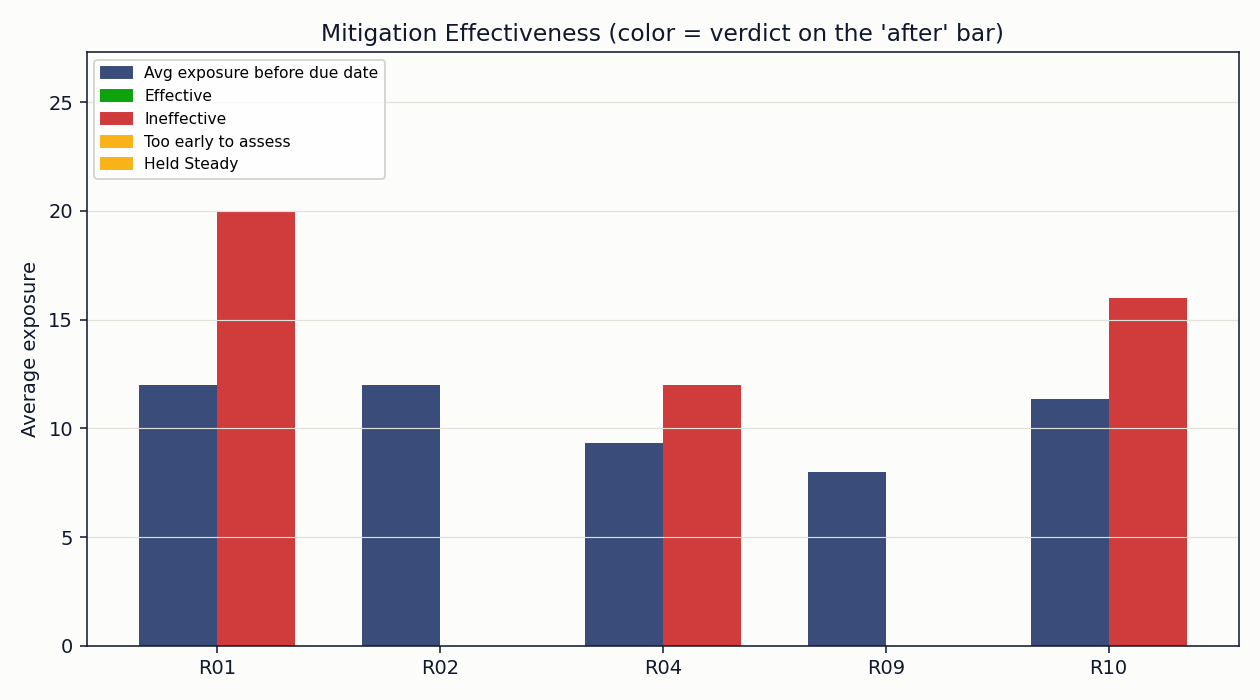
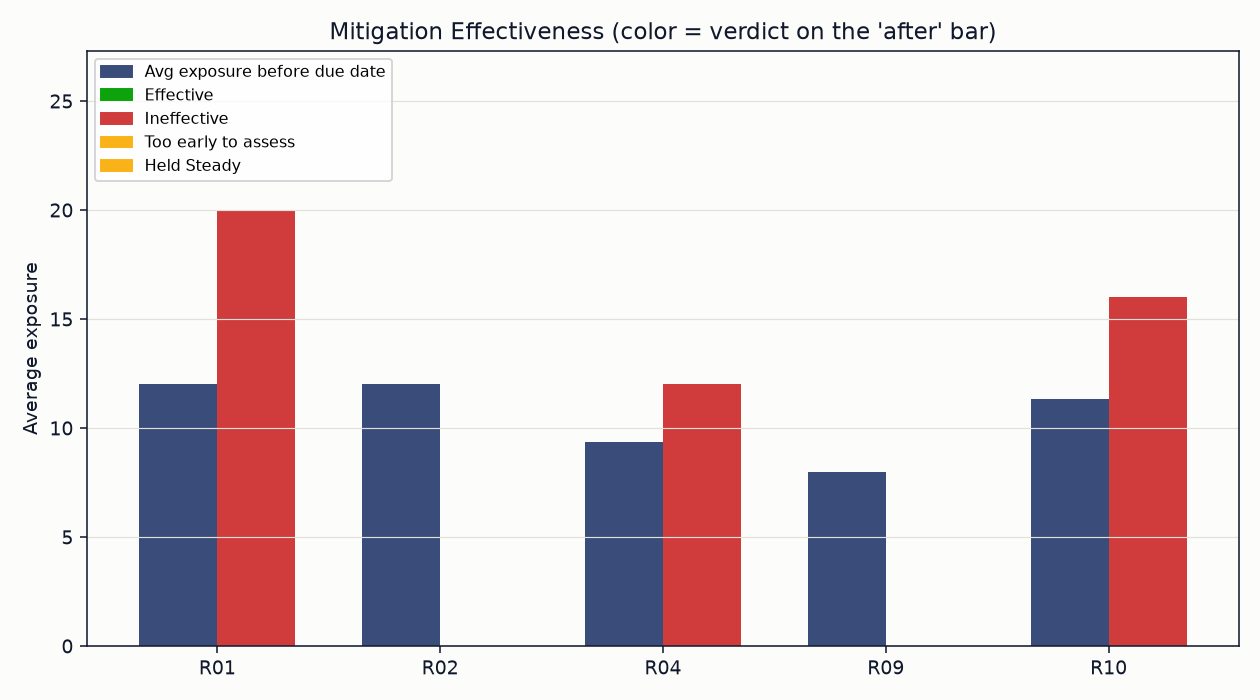
Fix broken NaN check, remove dead param, extract chart style module
- Replace the row["x"] == row["x"] NaN check (true for non-NaN values only
  by float identity quirk) with pd.notna(), extracted into a shared
  _fmt_avg() helper since the pattern repeated in both output paths.
- print_report/write_report_markdown took an exposure_trend argument
  neither function read; dropped from both signatures and call sites.
- chart_trajectory: removed the dead "if len(idx) > 1 else 0" branch
  (the formula already evaluates to 0 when len==1) and hoisted the
  loop-invariant span=0.6 out of the per-group loop.
- chart_trajectory: replaced iterrows()-index-as-plot-position with
  enumerate(itertuples()), removing the implicit dependency on the
  DataFrame's index matching position.
- Extracted the duplicated chart chrome helper and color constants into
  src/chart_style.py (vendored copy of project-controls-dashboard's
  canonical version).

No behavior change to the underlying metrics (src/metrics.py was already
the canonical/reference version other repos vendor from).

diff --git a/risk_tracker.py b/risk_tracker.py
@@ -14,21 +14,12 @@ Run:
 import os
 
 import matplotlib.pyplot as plt
+import pandas as pd
 
-from src import metrics
+from src import chart_style, metrics
 
 DATA_DIR = os.path.join(os.path.dirname(__file__), "data")
 ASSETS_DIR = os.path.join(os.path.dirname(__file__), "assets")
-
-# Standardized chart color system (chart chrome, status scale, categorical series, baseline)
-CHART_BG = "#fcfcfb"
-INK = "#10182b"
-GRID = "#e1e0d9"
-BASELINE = "#3a4d7a"
-SERIES_1 = "#2a78d6"
-STATUS_GOOD = "#0ca30c"
-STATUS_WARNING = "#fab219"
-STATUS_CRITICAL = "#d03b3b"
 
 # Worsening/Stable/Improving is a severity trend, so it takes the status scale.
 # "Closed/Resolved" isn't a severity level (a resolved risk isn't "critical" or
@@ -37,34 +28,22 @@ STATUS_CRITICAL = "#d03b3b"
 # that stopped being reported without the register's status field ever saying
 # it was closed/resolved -- neither a severity reading nor a confirmed closure,
 # so it shares the neutral/needs-attention amber used for "Stable".
-TREND_COLORS = {"Worsening": STATUS_CRITICAL, "Improving": STATUS_GOOD,
-                 "Stable": STATUS_WARNING, "Closed/Resolved": SERIES_1,
-                 "Dropped (Unconfirmed)": STATUS_WARNING}
+TREND_COLORS = {"Worsening": chart_style.STATUS_CRITICAL, "Improving": chart_style.STATUS_GOOD,
+                 "Stable": chart_style.STATUS_WARNING, "Closed/Resolved": chart_style.SERIES_1,
+                 "Dropped (Unconfirmed)": chart_style.STATUS_WARNING}
 # "Held Steady" is the neutral outcome for exposure that neither improved nor
 # worsened -- it shares "Too early to assess"'s amber rather than being forced
 # into "Ineffective".
-VERDICT_COLORS = {"Effective": STATUS_GOOD, "Ineffective": STATUS_CRITICAL,
-                   "Too early to assess": STATUS_WARNING, "Held Steady": STATUS_WARNING}
+VERDICT_COLORS = {"Effective": chart_style.STATUS_GOOD, "Ineffective": chart_style.STATUS_CRITICAL,
+                   "Too early to assess": chart_style.STATUS_WARNING, "Held Steady": chart_style.STATUS_WARNING}
 
 
-def _apply_chrome(fig, axes) -> None:
-    """Apply the standardized chart chrome (background, ink, gridlines) to a figure."""
-    fig.patch.set_facecolor(CHART_BG)
-    if hasattr(axes, "flatten"):
-        axes = axes.flatten().tolist()
-    elif not isinstance(axes, (list, tuple)):
-        axes = [axes]
-    for ax in axes:
-        ax.set_facecolor(CHART_BG)
-        ax.title.set_color(INK)
-        ax.xaxis.label.set_color(INK)
-        ax.yaxis.label.set_color(INK)
-        ax.tick_params(colors=INK)
-        for spine in ax.spines.values():
-            spine.set_color(INK)
+def _fmt_avg(value: float) -> str:
+    """Format an average-exposure figure, or 'n/a' if it's NaN (no before/after window to average)."""
+    return f"{value:.1f}" if pd.notna(value) else "n/a"
 
 
-def print_report(exposure_trend, trajectory, effectiveness, score: dict) -> None:
+def print_report(trajectory, effectiveness, score: dict) -> None:
     print("=" * 64)
     print("RISK TREND REPORT")
     print("=" * 64)
@@ -95,8 +74,8 @@ def print_report(exposure_trend, trajectory, effectiveness, score: dict) -> None
     print("MITIGATION EFFECTIVENESS")
     print("-" * 64)
     for _, row in effectiveness.iterrows():
-        before = f"{row['avg_exposure_before']:.1f}" if row["avg_exposure_before"] == row["avg_exposure_before"] else "n/a"
-        after = f"{row['avg_exposure_after']:.1f}" if row["avg_exposure_after"] == row["avg_exposure_after"] else "n/a"
+        before = _fmt_avg(row["avg_exposure_before"])
+        after = _fmt_avg(row["avg_exposure_after"])
         print(f"  {row['risk_id']:<5} [{row['verdict']:<18}] "
               f"avg before {before}  avg after {after}  {row['description']}")
 
@@ -104,31 +83,31 @@ def print_report(exposure_trend, trajectory, effectiveness, score: dict) -> None
 def chart_exposure_trend(exposure_trend) -> None:
     fig, ax = plt.subplots(figsize=(9, 5))
     ax.plot(exposure_trend["snapshot_date"].to_numpy(), exposure_trend["total_exposure"].to_numpy(),
-            color=SERIES_1, linewidth=2, marker="o")
+            color=chart_style.SERIES_1, linewidth=2, marker="o")
     ax.set_ylabel("Total portfolio exposure (sum of probability x impact)")
     ax.set_title("Portfolio Risk Exposure Over Time")
-    ax.grid(color=GRID, linewidth=0.6)
-    _apply_chrome(fig, ax)
+    ax.grid(color=chart_style.GRID, linewidth=0.6)
+    chart_style.apply_chrome(fig, ax)
     fig.autofmt_xdate()
     fig.tight_layout()
-    fig.savefig(os.path.join(ASSETS_DIR, "exposure_trend.png"), dpi=140, facecolor=CHART_BG)
+    fig.savefig(os.path.join(ASSETS_DIR, "exposure_trend.png"), dpi=140, facecolor=chart_style.CHART_BG)
     plt.close(fig)
 
 
 def chart_trajectory(trajectory) -> None:
     fig, ax = plt.subplots(figsize=(8, 7))
+    span = 0.6
     label_offsets = {}
     for value, idx in trajectory.groupby("last_exposure").groups.items():
         idx = list(idx)
-        span = 0.6
         for j, i in enumerate(idx):
-            label_offsets[i] = (j - (len(idx) - 1) / 2) * span if len(idx) > 1 else 0
+            label_offsets[i] = (j - (len(idx) - 1) / 2) * span
 
-    for i, row in trajectory.iterrows():
-        color = TREND_COLORS[row["trend"]]
-        ax.plot([0, 1], [row["first_exposure"], row["last_exposure"]], color=color,
+    for i, row in enumerate(trajectory.itertuples()):
+        color = TREND_COLORS[row.trend]
+        ax.plot([0, 1], [row.first_exposure, row.last_exposure], color=color,
                 linewidth=2, marker="o")
-        ax.annotate(row["risk_id"], (1.02, row["last_exposure"] + label_offsets[i]), fontsize=8, va="center")
+        ax.annotate(row.risk_id, (1.02, row.last_exposure + label_offsets[i]), fontsize=8, va="center")
     ax.set_xlim(-0.15, 1.3)
     ax.set_xticks([0, 1])
     ax.set_xticklabels(["First snapshot", "Latest snapshot"])
@@ -136,10 +115,10 @@ def chart_trajectory(trajectory) -> None:
     ax.set_title("Per-Risk Trajectory: First vs Latest Exposure")
     handles = [plt.Line2D([0], [0], color=c, linewidth=2, label=k) for k, c in TREND_COLORS.items()]
     ax.legend(handles=handles, loc="upper left", fontsize=8)
-    ax.grid(color=GRID, linewidth=0.6, axis="y")
-    _apply_chrome(fig, ax)
+    ax.grid(color=chart_style.GRID, linewidth=0.6, axis="y")
+    chart_style.apply_chrome(fig, ax)
     fig.tight_layout()
-    fig.savefig(os.path.join(ASSETS_DIR, "trajectory.png"), dpi=140, facecolor=CHART_BG)
+    fig.savefig(os.path.join(ASSETS_DIR, "trajectory.png"), dpi=140, facecolor=chart_style.CHART_BG)
     plt.close(fig)
 
 
@@ -148,7 +127,7 @@ def chart_effectiveness(effectiveness) -> None:
     fig, ax = plt.subplots(figsize=(9, 5))
     x = range(len(ranked))
     width = 0.35
-    ax.bar([i - width / 2 for i in x], ranked["avg_exposure_before"], width, color=BASELINE)
+    ax.bar([i - width / 2 for i in x], ranked["avg_exposure_before"], width, color=chart_style.BASELINE)
     colors = [VERDICT_COLORS[v] for v in ranked["verdict"]]
     ax.bar([i + width / 2 for i in x], ranked["avg_exposure_after"], width, color=colors)
     ax.set_xticks(list(x))
@@ -157,13 +136,13 @@ def chart_effectiveness(effectiveness) -> None:
     ax.set_title("Mitigation Effectiveness (color = verdict on the 'after' bar)")
     ymin, ymax = ax.get_ylim()
     ax.set_ylim(ymin, ymax * 1.3)  # headroom so the legend doesn't sit on top of the tallest bar
-    handles = [plt.Rectangle((0, 0), 1, 1, color=BASELINE, label="Avg exposure before due date")]
+    handles = [plt.Rectangle((0, 0), 1, 1, color=chart_style.BASELINE, label="Avg exposure before due date")]
     handles += [plt.Rectangle((0, 0), 1, 1, color=c, label=k) for k, c in VERDICT_COLORS.items()]
     ax.legend(handles=handles, loc="upper left", fontsize=8)
-    ax.grid(color=GRID, linewidth=0.6, axis="y")
-    _apply_chrome(fig, ax)
+    ax.grid(color=chart_style.GRID, linewidth=0.6, axis="y")
+    chart_style.apply_chrome(fig, ax)
     fig.tight_layout()
-    fig.savefig(os.path.join(ASSETS_DIR, "mitigation_effectiveness.png"), dpi=140, facecolor=CHART_BG)
+    fig.savefig(os.path.join(ASSETS_DIR, "mitigation_effectiveness.png"), dpi=140, facecolor=chart_style.CHART_BG)
     plt.close(fig)
 
 
@@ -180,7 +159,7 @@ def _escape_md_cell(value) -> str:
     return text.replace("\r\n", " ").replace("\n", " ").replace("\r", " ")
 
 
-def write_report_markdown(exposure_trend, trajectory, effectiveness, score: dict) -> None:
+def write_report_markdown(trajectory, effectiveness, score: dict) -> None:
     lines = [
         "# Risk Trend Report",
         "",
@@ -216,8 +195,8 @@ def write_report_markdown(exposure_trend, trajectory, effectiveness, score: dict
               "| Risk | Verdict | Avg Before | Avg After | Description |",
               "|---|---|---|---|---|"]
     for _, row in effectiveness.iterrows():
-        before = f"{row['avg_exposure_before']:.1f}" if row["avg_exposure_before"] == row["avg_exposure_before"] else "n/a"
-        after = f"{row['avg_exposure_after']:.1f}" if row["avg_exposure_after"] == row["avg_exposure_after"] else "n/a"
+        before = _fmt_avg(row["avg_exposure_before"])
+        after = _fmt_avg(row["avg_exposure_after"])
         lines.append(
             f"| {row['risk_id']} | {row['verdict']} | {before} | {after} "
             f"| {_escape_md_cell(row['description'])} |"
@@ -238,12 +217,12 @@ def main() -> None:
     effectiveness = metrics.mitigation_effectiveness(snapshots)
     score = metrics.risk_trajectory_score(exposure_trend, effectiveness, snapshots)
 
-    print_report(exposure_trend, trajectory, effectiveness, score)
+    print_report(trajectory, effectiveness, score)
 
     chart_exposure_trend(exposure_trend)
     chart_trajectory(trajectory)
     chart_effectiveness(effectiveness)
-    write_report_markdown(exposure_trend, trajectory, effectiveness, score)
+    write_report_markdown(trajectory, effectiveness, score)
 
     print()
     print("-" * 64)

diff --git a/src/chart_style.py b/src/chart_style.py
@@ -1,0 +1,39 @@
+"""Standardized chart color system and chrome (chart chrome, status scale, baseline/reference).
+
+This module is identical, byte-for-byte, across all six repos in the
+github.com/alexc-hue project-controls toolkit (schedule-health-analyzer,
+project-controls-dashboard, change-control-register, risk-trend-tracker,
+project-controls-reporting-engine, recovery-scenario-planner). Each repo
+carries its own copy so it stays independently cloneable and runnable
+without pulling in the others, the same rationale the vendored engines
+already document. project-controls-dashboard is the canonical source; if
+the palette changes, update it there first and re-sync the rest.
+"""
+
+from __future__ import annotations
+
+CHART_BG = "#fcfcfb"
+INK = "#10182b"
+GRID = "#e1e0d9"
+BASELINE = "#3a4d7a"
+SERIES_1 = "#2a78d6"
+STATUS_GOOD = "#0ca30c"
+STATUS_WARNING = "#fab219"
+STATUS_CRITICAL = "#d03b3b"
+
+
+def apply_chrome(fig, axes) -> None:
+    """Apply the standardized chart chrome (background, ink, gridlines) to a figure."""
+    fig.patch.set_facecolor(CHART_BG)
+    if hasattr(axes, "flatten"):
+        axes = axes.flatten().tolist()
+    elif not isinstance(axes, (list, tuple)):
+        axes = [axes]
+    for ax in axes:
+        ax.set_facecolor(CHART_BG)
+        ax.title.set_color(INK)
+        ax.xaxis.label.set_color(INK)
+        ax.yaxis.label.set_color(INK)
+        ax.tick_params(colors=INK)
+        for spine in ax.spines.values():
+            spine.set_color(INK)
